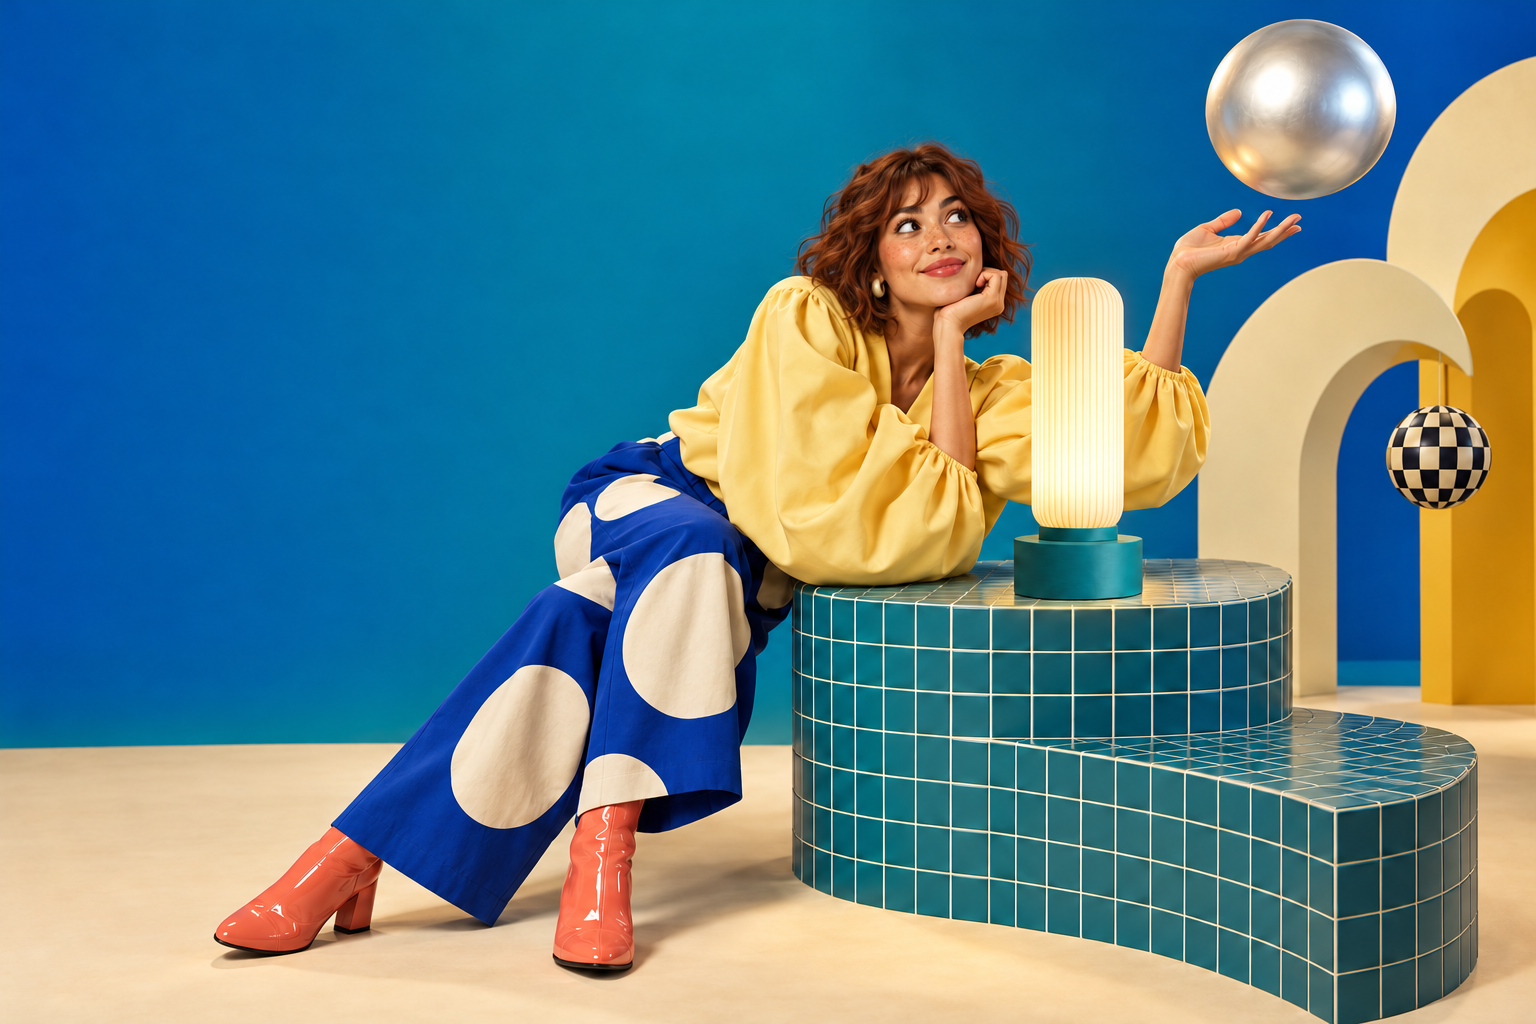
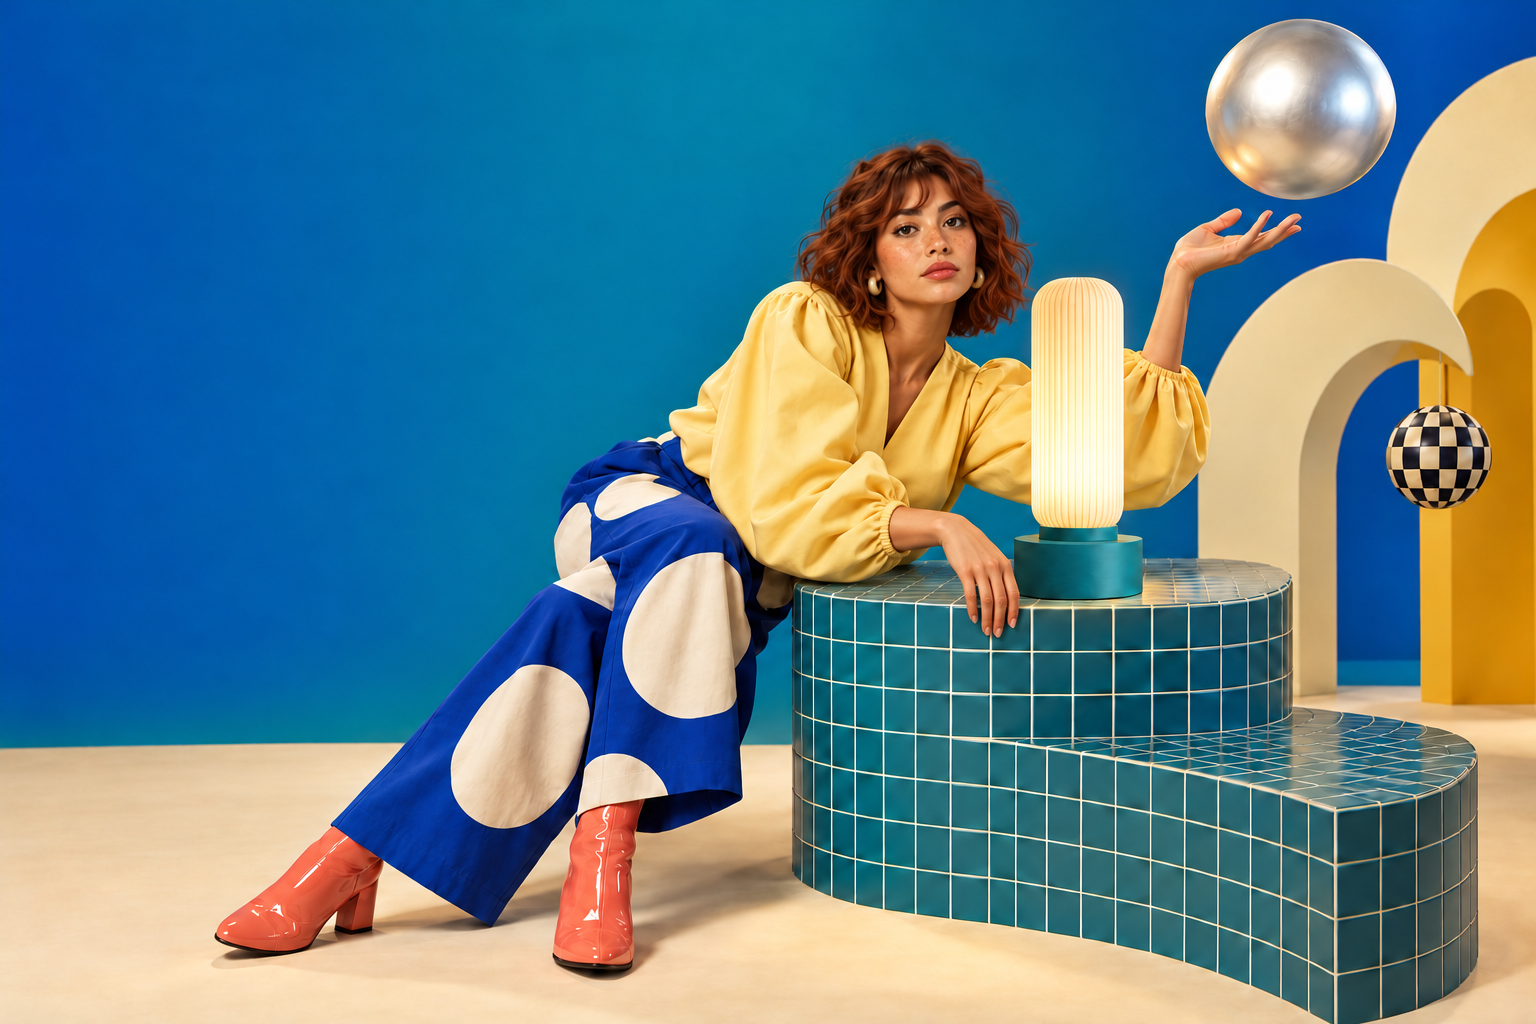
Ajusta expressoes editoriais e anatomia da campanha Farol

diff --git a/docs/site-imagens.md b/docs/site-imagens.md
@@ -2,7 +2,7 @@
 
 Data: 13/10/2026. Estado: **PROPOSTA / imagens conceituais**. O acervo contém 20 imagens originais geradas com `image_gen` e copiadas para `apps/site/public/images/`: dez anteriores, sete da revisão artística e três novos fundos de estúdio para os cards de composição. Não são fotos de produtos fabricados nem fotografias da Gantri. A direção editorial está em [site-direcao-conteudo.md](site-direcao-conteudo.md); a revisão artística aprovada pelo usuário está em [direcao-artistica-imagens.md](direcao-artistica-imagens.md).
 
-**Refinamento concluído nos arquivos:** depois da primeira rodada, o usuário pediu ajustar somente as personagens das três campanhas à persona da revista, preservando produto e cenário. O manifesto abaixo já registra as edições finais. A primeira geração e os prompts correspondentes permanecem no histórico do JSON; as quatro inspirações foram preservadas.
+**Refinamentos concluídos nos arquivos:** depois da primeira rodada, as personagens das três campanhas foram ajustadas à persona da revista. Na edição mais recente, as cinco fotos com pessoas em uso no site receberam expressões sérias de editorial de moda. Em Farol, a mão que apoiava o rosto foi reposicionada sobre o pedestal, com o antebraço visível e conectado à manga. Produtos, figurinos, cenários e enquadramentos foram preservados. As gerações anteriores permanecem registradas nos JSONs de campanha e inspiração; os prompts literais da edição mais recente estão em [imagens-prompts-expressoes.json](imagens-prompts-expressoes.json).
 
 ## Manifesto de arquivos
 
@@ -20,11 +20,11 @@ Dimensões conferidas nos cabeçalhos PNG. A correspondência com os originais f
 | `manifesto.png` | 1536 × 1024 | Marco à direita sobre cenário vinho escuro; painel de manifesto | `exec-589ad93f-9cad-4467-9a80-8e9f75e47eb9.png` |
 | `hero-marco-homem.png` | 1536 × 1024 | Campanha anterior no acervo: homem sentado, camisa de linho clara, Marco nas mãos e fundo vinho | `exec-5c3f1ea6-09ed-4287-a2c6-27477fc13ed2.png` |
 | `hero-farol-mulher.png` | 1536 × 1024 | Campanha anterior no acervo: mulher em gesto de dança ao lado de Farol, cenário Lago; imagem estática | `exec-b8c5b9e1-a5e4-40e6-b0b7-74fbb81ab273.png` |
-| `campanha-duna-jardim.png` | 1536 × 1024 | Campanha ativa Duna: mulher jovem de cabelo cacheado, roupa fúcsia volumosa, banco curvo Brasa, flores gigantes e fitas suspensas | `exec-0d6570b4-4949-48a0-bb0b-2b4d22e93f47.png` |
-| `campanha-marco-orbita.png` | 1536 × 1024 | Campanha ativa Marco: homem jovem de cachos e óculos, alfaiataria listrada, cachecol âmbar, palco verde e três grandes anéis suspensos | `exec-2d8dd632-3553-4c8f-ad76-e9886c98ad2a.png` |
-| `campanha-farol-cenario.png` | 1536 × 1024 | Campanha ativa Farol: mulher jovem de cabelo ruivo ondulado, blusa amarela escultural, calça azul com círculos creme, pedestal de azulejos e esfera suspensa | `exec-2b3fe015-9293-4e61-b49d-b34177567d93.png` |
-| `insp-duna-nuvens.png` | 1536 × 1024 | Galeria: mulher rindo, roupa coral/creme e poltrona com volumes de nuvem, flores gigantes e Duna sobre pedestal | `exec-e1f78b1d-d49f-4e20-a211-c8b0b66d9529.png` |
-| `insp-marco-escada.png` | 1536 × 1024 | Galeria: homem em alfaiataria gráfica, escadaria âmbar e arco creme sobre fundo vinho; Marco ao lado | `exec-50c73a78-d4e0-4f88-adc5-eecb10b1c6fa.png` |
+| `campanha-duna-jardim.png` | 1536 × 1024 | Campanha ativa Duna: mulher de expressão séria, roupa fúcsia volumosa, banco curvo Brasa, flores gigantes e fitas suspensas | `exec-b84bc28d-110b-4689-a036-a36413f8803d.png` |
+| `campanha-marco-orbita.png` | 1536 × 1024 | Campanha ativa Marco: homem de expressão séria, alfaiataria listrada, cachecol âmbar, palco verde e três grandes anéis suspensos | `exec-a63790bc-4e7e-477c-a74f-b2f2f3545d12.png` |
+| `campanha-farol-cenario.png` | 1536 × 1024 | Campanha ativa Farol: mulher de expressão séria, braço apoiado no pedestal de azulejos, blusa amarela escultural e esfera suspensa | `exec-a0244159-f888-45eb-b07f-a6a445ef4350.png` |
+| `insp-duna-nuvens.png` | 1536 × 1024 | Galeria: mulher em pose editorial séria, roupa coral/creme e poltrona com volumes de nuvem, flores gigantes e Duna sobre pedestal | `exec-44c37b6b-09de-45c7-b0cc-db66bb831952.png` |
+| `insp-marco-escada.png` | 1536 × 1024 | Galeria: homem de expressão séria em alfaiataria gráfica, escadaria âmbar e arco creme sobre fundo vinho; Marco ao lado | `exec-2017e159-2262-4160-b489-8d61c76c9657.png` |
 | `insp-farol-mar.png` | 1536 × 1024 | Galeria: Farol em ilha de azulejos acima do espelho-d’água, cortinas azuis e esfera lunar creme | `exec-0194777e-5ac3-4ffd-853f-340403438421.png` |
 | `insp-trio-galeria.png` | 1536 × 1024 | Galeria: Duna, Marco e Farol sobre três pedestais, esculturas Lago/Brasa/creme e tecido rosa | `exec-14af34b9-7d25-441d-add1-56aa29fe5804.png` |
 | `categoria-marco-violeta.png` | 1122 × 1402 | Card Marco em “Qual é a sua luz?”: fundo de estúdio violeta/lavanda; produto preserva base oliva, três anéis âmbar e domo creme | `exec-44b2cb6a-0543-458e-ba60-08cba3ef7069.png` |
@@ -35,7 +35,7 @@ Pastas dos originais em `C:/Users/Antônio/.codex/generated_images/`: `01a1366c-
 
[1 lines of base64/hex data omitted]
 
-Na revisão artística posterior, os **17 arquivos** tiveram dimensões lidas dos cabeçalhos PNG e SHA-256 comparado com os originais: todos corresponderam. Após a edição das personagens, os três PNGs substituídos foram novamente conferidos com os novos originais e também corresponderam. Os sete novos têm resolução nativa de 1536 × 1024; as três campanhas foram editadas por `image_gen`, sem pós-processamento por código. Hashes finais desta rodada:
+Na revisão artística anterior, os **17 arquivos** tiveram dimensões lidas dos cabeçalhos PNG e SHA-256 comparado com os originais: todos corresponderam. Após a edição das personagens, os três PNGs substituídos foram novamente conferidos com os novos originais e também corresponderam. Os sete novos têm resolução nativa de 1536 × 1024; as três campanhas foram editadas por `image_gen`, sem pós-processamento por código. Hashes históricos daquela rodada:
 
 | Arquivo | SHA-256 |
 |---|---|
@@ -55,10 +55,21 @@ Na revisão dos fundos coloridos, os três PNGs foram conferidos em **1122 × 14
[2 lines of base64/hex data omitted]
 
+Na edição mais recente, as cinco fotos com pessoas em uso foram geradas novamente em **1536 × 1024**. Cada cópia pública corresponde byte a byte ao respectivo original da sessão. Hashes atuais:
+
+| Arquivo | SHA-256 |
+|---|---|
[5 lines of base64/hex data omitted]
+
 ## Prompts literais da revisão artística
 
-- [imagens-prompts-campanha.json](imagens-prompts-campanha.json): três edições finais das personagens, prompts completos, referências, originais e destinos; o histórico preserva as três gerações iniciais e suas referências estéticas fornecidas pelo usuário.
-- [imagens-prompts-inspiracoes.json](imagens-prompts-inspiracoes.json): quatro chamadas independentes de inspiração, prompts completos, referências de produto, dimensões, original e destino.
+- [imagens-prompts-campanha.json](imagens-prompts-campanha.json): três edições anteriores das personagens, prompts completos, referências, originais e destinos; o histórico preserva as três gerações iniciais e suas referências estéticas fornecidas pelo usuário.
+- [imagens-prompts-inspiracoes.json](imagens-prompts-inspiracoes.json): quatro chamadas independentes de inspiração na rodada anterior, com prompts completos, referências de produto, dimensões, original e destino.
+- [imagens-prompts-expressoes.json](imagens-prompts-expressoes.json): cinco edições mais recentes, com expressões sérias e correção anatômica em Farol; prompts literais, referências, originais e hashes atuais.
 - [imagens-prompts-fundos.json](imagens-prompts-fundos.json): três fundos de estúdio coloridos, prompts completos, referências de produto e cenário, originais e destinos. As referências externas orientam a iluminação e a composição; o produto permanece Per Parte.
 
 As três referências Gantri fornecidas pelo usuário orientaram a linguagem visual das campanhas. As instruções dos prompts pedem novas pessoas, composições e figurinos, preservando o produto Per Parte. Os arquivos temporários dessas referências não são assets do site. A seção abaixo conserva a direção base anterior e distingue esse resumo dos prompts literais executados na nova rodada.

diff --git a/.claude/state.md b/.claude/state.md
@@ -1,5 +1,7 @@
 # Estado da sessão
 
+> 13/10/2026 — **Expressões editoriais sérias e anatomia da Farol corrigidas.** As cinco fotos com pessoas efetivamente usadas na landing (três campanhas e duas inspirações) foram editadas com `image_gen` e copiadas sobre os assets públicos. As personagens, luminárias, figurinos, cenários e enquadramentos seguem reconhecíveis. Na Farol, o braço que antes terminava numa mão apoiada no rosto agora repousa sobre o pedestal, com conexão visível à manga; o outro braço permanece elevado. As cinco cópias têm 1536 × 1024 e SHA-256 igual ao original gerado. Prompts literais e hashes em `docs/imagens-prompts-expressoes.json`; manifesto e direção artística atualizados. Capturas 25–27 confirmam hero Duna/Farol no desktop e Farol no móvel, com rosto, mão e luminária legíveis. `npm run site:check`, `npm run site:build` e `git diff --check` passaram. Publicação e push seguem adiados pelo usuário.
+
 > 13/10/2026 — **Texto do hero atualizado a pedido do usuário:** “Criado por você,” / “Feito por partes”, em duas linhas, sem ponto final. O nome acessível da seção acompanha o H1. Tipografia móvel ajustada proporcionalmente para manter as duas linhas em telas estreitas. Conferido no navegador em 1280 px e 320 px, duas linhas e sem overflow; build concluído. Captura `24-titulo-hero-desktop.jpg`.
 
 > 13/10/2026 — **Fundos coloridos nos cards de composição concluídos e verificados.** O pedido de mais cor foi aplicado a “Qual é a sua luz?” (`#categorias`): Marco em cenário violeta/lavanda, Duna em verde-floresta/sálvia e Farol em vinho/laranja/âmbar. São três imagens de estúdio sem pessoas; desenhos e cores das luminárias permanecem preservados. Os fundos são editoriais, não novas variantes de produto ou filamentos. Campanhas com as personagens refinadas e galeria de oito cards permanecem preservadas. O acervo agora tem 20 PNGs. Fontes e prompts literais em `docs/imagens-prompts-fundos.json`; manifesto em `docs/site-imagens.md`.

diff --git a/.claude/fluxo-site.md b/.claude/fluxo-site.md
@@ -59,6 +59,8 @@ Use Luz Acesa, neutros e Brasa conforme `docs/design-system.md`. A landing usa U
 
 ## Verificação e pendências
 
+**Expressões editoriais e Farol (13/10/2026):** as cinco fotografias com pessoas em uso (três campanhas e duas inspirações) foram substituídas por versões com expressão séria de editorial de moda. Na campanha Farol, a mão antes apoiada no rosto agora repousa no pedestal, com antebraço conectado à manga; a outra mão permanece erguida. Os arquivos mantêm os mesmos caminhos públicos e dimensões 1536 × 1024. Prompts, originais e hashes atuais: `docs/imagens-prompts-expressoes.json`; direção: `docs/direcao-artistica-imagens.md`; manifesto: `docs/site-imagens.md`. Capturas desktop e móvel 25–27 em `docs/pesquisa/perparte-capturas/`.
+
 **Fundos coloridos:** arquivos e hashes conferidos; QA dos três cards concluído no navegador integrado. Desktop 1280 × 720: três imagens carregadas, nomes brancos (`rgb(255, 255, 255)`), peças inteiras e sem overflow. Móvel 390 × 844: três cards em uma coluna, sem overflow, luminárias inteiras e título Farol separado da cúpula. Marco no desktop e Farol no móvel abriram o detalhe correto e fecharam por Escape; console sem erros. `npm run site:check` e `npm run site:build` passaram. Evidências: `21-categorias-fundos-desktop.jpg`, `22-categorias-fundos-mobile.jpg` e `23-categoria-farol-mobile.jpg`, em `docs/pesquisa/perparte-capturas/`.
 
 A revisão artística foi conferida com as personagens finais: campanhas desktop em Chrome pela extensão (Duna/Farol, 1482 × 734) e navegador integrado (Marco, 1280 × 720); móvel integrado em 390 × 844, com rostos/luminárias inteiros, fundos corretos e sem overflow. A galeria mostrou oito cards e os quatro novos assets carregados, avanço por seta (`scrollLeft` 0 → 339) e link do trio para `#colecao`. Console integrado sem erros; `site:check`, `site:build` e `git diff --check` passaram. Capturas 13–20 e limites da verificação em `docs/revisao-landing-2026-10-13.md`.
